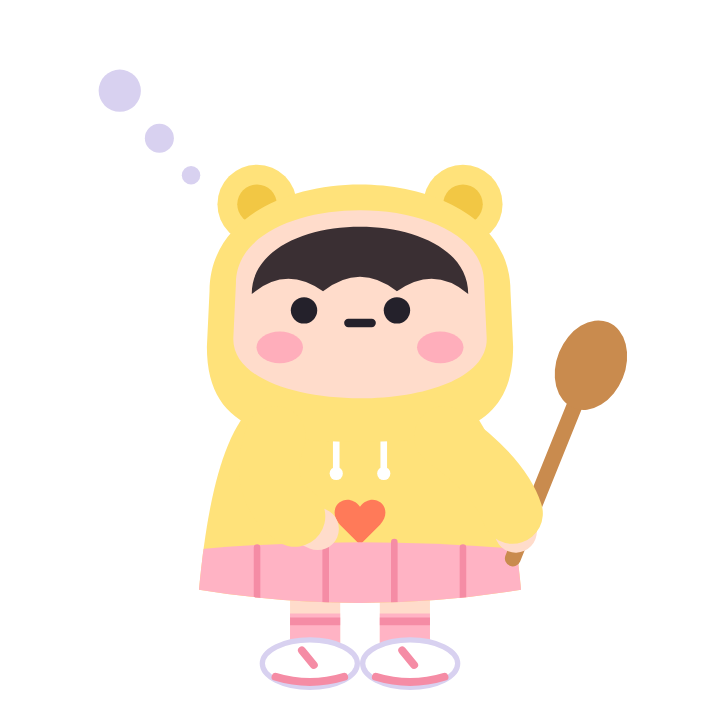
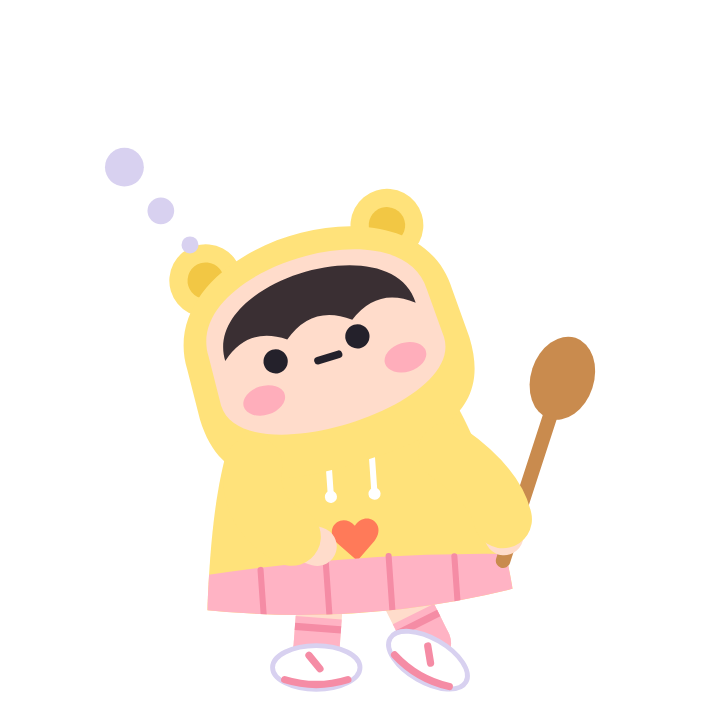
Make the characters move: lean, tilt, step, jump and sit
Every pose used to stand straight and only move the arms. The figure can
now lean its upper body, tilt its head, place each foot separately, lift
off the ground and sit, so Chef Jiw jumps when a timer ends and leans into
the wok, Bai Toey walks home with her tote and sits on a crate with the
list, and Nong Chim sits on a cushion to taste and jumps for a good score.

The body now rises under the head as one bell shape and sleeves match the
top, so head, shoulders and body read as a single silhouette.

Claude-Session: https://claude.ai/code/session_01YRit4BDrXmu1xBXH17a6cf

Changed region(s): [[0.1222, 0.1528, 0.8861, 0.9778], [0.1222, 0.0917, 0.2139, 0.1528], [0.2444, 0.2139, 0.275, 0.275]]

diff --git a/assets/images/chef/src/draw.py b/assets/images/chef/src/draw.py
@@ -19,63 +19,79 @@ HEAD = 'M146 152 C146 78 334 78 334 152 L336 194 C336 254 144 254 144 194 Z'
 def hair_cap(color, fringe, key):
     return (f'<clipPath id="h{key}"><path d="{fringe}"/></clipPath>'
             f'<path d="{HEAD}" fill="{color}" stroke="{color}" stroke-width="12" stroke-linejoin="round" clip-path="url(#h{key})"/>')
-TORSO = 'M180 232 C142 242 126 300 118 384 Q240 404 362 384 C354 300 338 242 300 232 Z'
-SHOULDER = {'L': (176, 268), 'R': (304, 268)}
+# ตัวเป็นทรงระฆังที่ขึ้นไปซ่อนใต้หัว ไหล่จึงต่อจากคางเป็นเส้นเดียว แขนเสื้อสีเดียวกับตัวเสื้อจึงกลืนเป็นก้อนเดียว
+TORSO = 'M164 206 C134 246 122 310 114 384 Q240 406 366 384 C358 310 346 246 316 206 Z'
+SHOULDER = {'L': (160, 268), 'R': (320, 268)}
 def arm(side, hx, hy, bx=0, by=0, skin='#FFE3C2', sleeve=None, cut=0.62):
     """แขนโค้งจากไหล่ถึงมือ ท่อนบนเป็นแขนเสื้อที่กว้างกว่า ปลายแขนกับมือเรียวกว่า"""
     x0, y0 = SHOULDER[side]; cx, cy = (x0 + hx) / 2 + bx, (y0 + hy) / 2 + by
     out = f'<path d="M{x0} {y0} Q{cx} {cy} {hx} {hy}" stroke="{skin}" stroke-width="32" stroke-linecap="round" fill="none"/>'
     if sleeve:
         t = cut; ax, ay = x0 + (cx - x0) * t, y0 + (cy - y0) * t; bx2, by2 = cx + (hx - cx) * t, cy + (hy - cy) * t
-        out += f'<path d="M{x0} {y0} Q{ax} {ay} {ax + (bx2 - ax) * t} {ay + (by2 - ay) * t}" stroke="{sleeve}" stroke-width="46" stroke-linecap="round" fill="none"/>'
+        out += f'<path d="M{x0} {y0} Q{ax} {ay} {ax + (bx2 - ax) * t} {ay + (by2 - ay) * t}" stroke="{sleeve}" stroke-width="48" stroke-linecap="round" fill="none"/>'
     return out
-def sneakers(accent):  # ผ้าใบขาวพื้นหนา มีแถบสี
-    return ''.join(f'<ellipse cx="{x}" cy="440" rx="36" ry="18" fill="#FFFFFF" stroke="{HAT_D}" stroke-width="4"/><path d="M{x-26} 450 q26 8 52 0" stroke="{accent}" stroke-width="6" stroke-linecap="round" fill="none"/><path d="M{x-6} 430 l9 11" stroke="{accent}" stroke-width="6" stroke-linecap="round"/>' for x in (202, 278))
-def legs(skin, sock, stripe):  # ขา ถุงเท้ายาวมีแถบ
-    return (f'<path d="M206 372 V424 M274 372 V424" stroke="{skin}" stroke-width="38" stroke-linecap="round"/><path d="M206 402 V426 M274 402 V426" stroke="{sock}" stroke-width="38" stroke-linecap="butt"/>'
-            f'<path d="M187 408 h38 M255 408 h38" stroke="{stripe}" stroke-width="6"/>')
+STAND = ((202, 440, 0), (278, 440, 0))
+def legs(skin, sock, accent, feet, drop):
+    """ขาจากสะโพกถึงเท้า เท้าแต่ละข้างกำหนดเป็น (x, y, มุมหมุนรองเท้า) จึงยกขา ก้าว หรือนั่งแบะขาได้"""
+    out = ''
+    for (hx, hy), (fx, fy, rot) in zip(((208, 372 + drop), (272, 372 + drop)), feet):
+        ax, ay = fx, fy - 14; mx, my = (hx + ax) / 2, (hy + ay) / 2
+        dx, dy = ax - hx, ay - hy; n = max(1.0, (dx * dx + dy * dy) ** 0.5); px, py = -dy / n * 19, dx / n * 19
+        sx, sy = hx + dx * 0.66, hy + dy * 0.66
+        out += (f'<path d="M{hx} {hy} L{ax} {ay}" stroke="{skin}" stroke-width="38" stroke-linecap="round"/><path d="M{mx} {my} L{ax} {ay}" stroke="{sock}" stroke-width="38"/><circle cx="{ax}" cy="{ay}" r="19" fill="{sock}"/>'
+                f'<path d="M{sx - px} {sy - py} L{sx + px} {sy + py}" stroke="{accent}" stroke-width="6"/>'
+                f'<g transform="rotate({rot} {fx} {fy})"><ellipse cx="{fx}" cy="{fy}" rx="36" ry="18" fill="#FFFFFF" stroke="{HAT_D}" stroke-width="4"/>'
+                f'<path d="M{fx-26} {fy+10} q26 8 52 0" stroke="{accent}" stroke-width="6" stroke-linecap="round" fill="none"/><path d="M{fx-6} {fy-10} l9 11" stroke="{accent}" stroke-width="6" stroke-linecap="round"/></g>')
+    return out
+shadow = '<ellipse cx="240" cy="462" rx="92" ry="10" fill="#24212B" opacity="0.12"/>'
 _n = [0]
-def person(skin, top, clothes, hair, look, mouth, accent, sock='#FFFFFF', back='', under_head='', arms_back='', arms_front='', hat='', front='', blush=0.85):
-    """ลำดับชั้น: ของหลังตัว ขา รองเท้า แขนหลัง ตัวเสื้อ ของหลังหัว (ฮู้ด ผมยาว) หัว ผม หมวก หน้า แขนหน้า ของหน้าสุด"""
+def person(skin, top, clothes, hair, accent, look=(0, 0), mouth=True, sock='#FFFFFF', back='', under_head='', arms_back='', arms_front='', hat='', front='', blush=0.85,
+           lean=0, tilt=0, feet=STAND, lift=0, drop=0, ground=''):
+    """lean = เอนตัวท่อนบน (องศา) tilt = เอียงคอ feet = ตำแหน่งเท้า lift = ลอยจากพื้น (กระโดด) drop = ย่อตัวลง (นั่ง) ground = ของที่พื้น"""
     _n[0] += 1; cid = f'c{_n[0]}'
-    return SVG(f'''{back}{legs(skin, sock, accent)}{sneakers(accent)}{arms_back}
+    return SVG(f'''<g transform="translate(240 470) scale(0.92) translate(-240 -470)">{ground}<g transform="translate(0 {-lift})">{legs(skin, sock, accent, feet, drop)}
+<g transform="translate(0 {drop}) rotate({lean} 240 384)">{back}{arms_back}
 <clipPath id="{cid}"><path d="{TORSO}"/></clipPath><path d="{TORSO}" fill="{top}"/><g clip-path="url(#{cid})">{clothes}</g>
-{under_head}<path d="{HEAD}" fill="{skin}"/>{hair}{hat}{face(look, mouth, blush)}
-{arms_front}{front}''')
+<g transform="rotate({tilt} 240 236)">{under_head}<path d="{HEAD}" fill="{skin}"/>{hair}{hat}{face(look, mouth, blush)}</g>
+{arms_front}</g></g>{front}</g>''')
 
-# ---------- เชฟจิ๋ว: หมวกเชฟ ผมหน้าม้าปัดข้าง ฮู้ดฟ้า ผ้ากันเปื้อนเต็มตัวสีส้มมีกระเป๋า ----------
-S1, SKY, SKY_D, BROWN = '#FFE3C2', '#BFD9FF', '#8FB6F2', '#6B4632'
-apron = (f'<path d="M204 232 V268 M276 232 V268" stroke="{CORAL_D}" stroke-width="9" stroke-linecap="round"/>'
-         f'<path d="M198 264 H282 Q290 264 290 272 V300 L326 312 L336 400 H144 L154 312 L190 300 V272 Q190 264 198 264 Z" fill="{CORAL}"/><rect x="212" y="326" width="56" height="38" rx="13" fill="{CORAL_L}"/>')
+# ---------- เชฟจิ๋ว: หมวกเชฟ ผมหน้าม้าปัดข้าง เสื้อแขนยาวฟ้า ผ้ากันเปื้อนเต็มตัวสีส้มมีกระเป๋า ----------
+S1, SKY, BROWN = '#FFE3C2', '#BFD9FF', '#6B4632'
+apron = (f'<path d="M204 216 V268 M276 216 V268" stroke="{CORAL_D}" stroke-width="9" stroke-linecap="round"/>'
+         f'<path d="M198 264 H282 Q290 264 290 272 V300 L326 312 L338 404 H142 L154 312 L190 300 V272 Q190 264 198 264 Z" fill="{CORAL}"/><rect x="212" y="326" width="56" height="38" rx="13" fill="{CORAL_L}"/>')
 chef_hair = hair_cap(BROWN, 'M100 40 H380 V182 C356 154 324 142 292 142 Q262 166 226 138 Q166 144 100 192 Z', 'chef')
-hood_down = lambda c: f'<ellipse cx="240" cy="246" rx="86" ry="26" fill="{c}"/>'
 def toque(rot=-8):
     return (f'<g transform="translate(240 96) rotate({rot}) scale(0.86) translate(-240 -150)"><path d="M184 152 Q240 134 296 152 L296 122 Q240 106 184 122 Z" fill="{HAT_D}" stroke="{HAT_D}" stroke-width="5" stroke-linejoin="round"/>'
             f'<path d="M180 124 C146 108 152 58 194 58 C202 20 278 20 286 58 C328 58 334 108 300 124 Q240 106 180 124 Z" fill="{HAT}" stroke="{HAT_D}" stroke-width="5" stroke-linejoin="round"/>'
             f'<path d="M214 64 q6 22 0 42 M266 64 q-6 22 0 42" stroke="{HAT_D}" stroke-width="5" stroke-linecap="round" fill="none"/></g>')
-def chef(look=(0, 0), mouth=True, **k):
+def chef(**k):
     k.setdefault('hat', toque())
-    return person(S1, SKY, apron, chef_hair, look, mouth, CORAL, under_head=hood_down(SKY_D), **k)
+    return person(S1, SKY, apron, chef_hair, CORAL, **k)
 A1 = lambda side, hx, hy, bx=0, by=0: arm(side, hx, hy, bx, by, S1, SKY)
 ladle = lambda x, y, r: f'<g transform="rotate({r} {x} {y})"><path d="M{x} {y+26} V{y-66}" stroke="{WOOD}" stroke-width="10" stroke-linecap="round"/><path d="M{x-22} {y-70} a22 22 0 0 0 44 0 z" fill="{WOOD}"/></g>'
-wok = lambda x, y: (f'<path d="M{x-66} {y} q66 56 132 0 z" fill="{INK}"/><path d="M{x+62} {y+2} l48 -12" stroke="{INK}" stroke-width="13" stroke-linecap="round"/>'
-                    f'<circle cx="{x-28}" cy="{y-24}" r="9" fill="{GREEN_L}"/><circle cx="{x+2}" cy="{y-42}" r="9" fill="{CORAL}"/><circle cx="{x+28}" cy="{y-22}" r="9" fill="{YEL}"/><circle cx="{x-6}" cy="{y-12}" r="8" fill="{GREEN}"/>'
-                    f'<path d="M{x-50} {y-54} q-9 -11 0 -22 M{x+48} {y-58} q9 -11 0 -22" stroke="{HAT_D}" stroke-width="6" stroke-linecap="round" fill="none"/>')
+wok = lambda x, y, r=0: (f'<g transform="rotate({r} {x} {y})"><path d="M{x-66} {y} q66 56 132 0 z" fill="{INK}"/><path d="M{x+62} {y+2} l48 -12" stroke="{INK}" stroke-width="13" stroke-linecap="round"/></g>'
+                    f'<circle cx="{x-34}" cy="{y-40}" r="9" fill="{GREEN_L}"/><circle cx="{x-2}" cy="{y-66}" r="9" fill="{CORAL}"/><circle cx="{x+30}" cy="{y-44}" r="9" fill="{YEL}"/><circle cx="{x-10}" cy="{y-24}" r="8" fill="{GREEN}"/><circle cx="{x+16}" cy="{y-84}" r="7" fill="{GREEN_L}"/>')
 POSES = {
-  'hi': chef(arms_back=A1('L', 104, 196, -18, 14), arms_front=ladle(372, 300, 14) + A1('R', 368, 318, 20, -6),
-             front=f'<path d="M66 172 q-12 -14 -8 -32 M90 156 q-6 -12 -2 -26" stroke="{YEL}" stroke-width="7" stroke-linecap="round" fill="none"/>'),
-  'cook': chef(arms_front=wok(256, 350) + A1('L', 196, 344, -34, 12) + A1('R', 352, 340, 30, 8)),
-  'cheer': chef(arms_back=A1('L', 100, 176, -14, 16) + A1('R', 380, 176, 14, 16), hat=toque(-14), front=star(58, 116, 22) + star(426, 104, 26) + star(398, 36, 13) + star(100, 50, 12)),
-  'think': chef(look=(10, -8), arms_front=A1('L', 226, 334, -38, 16) + A1('R', 290, 232, 48, 12), hat=toque(6), blush=0.6,
-                front=f'<circle cx="376" cy="110" r="8" fill="{HAT_D}"/><circle cx="400" cy="80" r="13" fill="{HAT_D}"/><circle cx="430" cy="36" r="22" fill="{HAT_D}"/>'),
-  'oops': chef(arms_front=A1('L', 174, 214, -44, 22) + A1('R', 306, 214, 44, 22), hat=toque(-18), blush=0.5,
-               front='<path d="M404 86 q22 34 0 46 q-22 -12 0 -46 z" fill="#6CC5F5"/><path d="M70 110 l-22 -10 M64 144 l-24 2" stroke="#6CC5F5" stroke-width="7" stroke-linecap="round"/>'),
+  # โบกมือ เอนตัวนิดๆ เท้าหนึ่งเขย่ง
+  'hi': chef(lean=-5, tilt=5, feet=((200, 440, 0), (292, 432, 24)), arms_back=A1('L', 92, 196, -18, 14), arms_front=ladle(378, 300, 14) + A1('R', 374, 318, 20, -6),
+             front=f'<path d="M52 168 q-12 -14 -8 -32 M76 152 q-6 -12 -2 -26" stroke="{YEL}" stroke-width="7" stroke-linecap="round" fill="none"/>'),
+  # เอนตัวตามกระทะ ของในกระทะลอยขึ้น
+  'cook': chef(lean=9, tilt=-6, feet=((186, 440, -8), (286, 440, 10)), arms_front=wok(262, 346, -10) + A1('L', 200, 340, -34, 12) + A1('R', 356, 328, 30, 8)),
+  # กระโดดตัวลอย แขนขากาง
+  'cheer': chef(lift=30, feet=((170, 432, -22), (310, 432, 22)), ground=shadow, arms_back=A1('L', 88, 172, -14, 16) + A1('R', 392, 172, 14, 16), hat=toque(-14),
+                front=star(50, 96, 22) + star(432, 84, 26) + star(400, 22, 13) + star(96, 30, 12)),
+  # เอียงคอคิด เท้าไขว้
+  'think': chef(look=(10, -8), tilt=11, lean=3, feet=((214, 440, 0), (250, 438, -24)), arms_front=A1('L', 230, 334, -38, 16) + A1('R', 300, 252, 50, 10), hat=toque(4), blush=0.6,
+                front=f'<circle cx="392" cy="112" r="8" fill="{HAT_D}"/><circle cx="414" cy="82" r="13" fill="{HAT_D}"/><circle cx="442" cy="40" r="22" fill="{HAT_D}"/>'),
+  # ผงะถอยหลัง ยกขาข้างหนึ่ง มือกุมแก้ม
+  'oops': chef(lean=-10, tilt=-4, feet=((214, 440, 0), (318, 410, 34)), arms_front=A1('L', 170, 214, -44, 22) + A1('R', 310, 214, 44, 22), hat=toque(-20), blush=0.5,
+               front='<path d="M408 96 q22 34 0 46 q-22 -12 0 -46 z" fill="#6CC5F5"/><path d="M56 122 l-22 -10 M50 156 l-24 2" stroke="#6CC5F5" stroke-width="7" stroke-linecap="round"/>'),
 }
 
 # ---------- ใบเตย: หมวกบักเก็ต ผมเปียคู่ผูกโบว์ เสื้อยืดเขียวมินต์ เอี๊ยมกระโปรงยีนส์ติดกระดุมเหลือง ถุงผ้าใส่ผัก ----------
 S2, MINT, DENIM, DENIM_D, CREAM, CREAM_D, DARKHAIR = '#FFDDBE', '#A6ECCF', '#7C9BF0', '#5E7FE0', '#FFF3DC', '#EAD9B4', '#4A3A36'
-pinafore = (f'<path d="M206 232 V270 M274 232 V270" stroke="{DENIM}" stroke-width="16" stroke-linecap="round"/>'
-            f'<path d="M196 262 H284 Q292 262 292 270 V304 L334 314 L346 404 H134 L146 314 L188 304 V270 Q188 262 196 262 Z" fill="{DENIM}"/>'
+pinafore = (f'<path d="M206 214 V270 M274 214 V270" stroke="{DENIM}" stroke-width="16" stroke-linecap="round"/>'
+            f'<path d="M196 262 H284 Q292 262 292 270 V304 L334 314 L348 406 H132 L146 314 L188 304 V270 Q188 262 196 262 Z" fill="{DENIM}"/>'
             f'<circle cx="206" cy="276" r="7" fill="{YEL}"/><circle cx="274" cy="276" r="7" fill="{YEL}"/><path d="M216 316 H264 V340 Q240 352 216 340 Z" fill="none" stroke="{DENIM_D}" stroke-width="5" stroke-linejoin="round"/>'
             f'<path d="M150 346 Q240 336 330 346" stroke="{DENIM_D}" stroke-width="5" fill="none"/>')
 braid = lambda x, d: (f'<path d="M{x} 206 q{d*14} 34 {d*4} 68 q{-d*6} 24 {d*6} 44" stroke="{DARKHAIR}" stroke-width="30" stroke-linecap="round" fill="none"/>'
@@ -83,15 +99,19 @@ braid = lambda x, d: (f'<path d="M{x} 206 q{d*14} 34 {d*4} 68 q{-d*6} 24 {d*6} 4
 toey_hair = hair_cap(DARKHAIR, 'M100 40 H380 V190 C356 160 322 150 296 148 Q240 170 184 148 C158 150 124 160 100 190 Z', 'toey')
 bucket = (f'<g transform="translate(240 92) scale(0.86) translate(-240 -130)"><path d="M96 132 Q240 96 384 132 Q396 150 372 156 Q240 126 108 156 Q84 150 96 132 Z" fill="{CREAM_D}"/>'
           f'<path d="M140 136 C132 60 186 26 240 26 C294 26 348 60 340 136 Q240 110 140 136 Z" fill="{CREAM}"/><path d="M146 112 Q240 88 334 112" stroke="{CREAM_D}" stroke-width="6" fill="none"/></g>')
-def toey(look=(0, 0), mouth=True, **k):
-    return person(S2, MINT, pinafore, toey_hair, look, mouth, GREEN, back=braid(156, -1) + braid(324, 1), hat=bucket, **k)
+def toey(**k):
+    return person(S2, MINT, pinafore, toey_hair, GREEN, back=braid(150, -1) + braid(330, 1), hat=bucket, **k)
 A2 = lambda side, hx, hy, bx=0, by=0: arm(side, hx, hy, bx, by, S2, MINT, 0.4)
 tote = lambda x, y: (f'<path d="M{x-24} {y-4} q24 -60 48 0" stroke="{CREAM_D}" stroke-width="8" fill="none" stroke-linecap="round"/>'
     f'<path d="M{x-26} {y+2} q-20 -42 6 -58 q24 18 8 58 z" fill="{GREEN}"/><path d="M{x-2} {y+2} q-8 -50 24 -62 q18 28 -4 62 z" fill="{GREEN_L}"/><path d="M{x+16} {y+4} l20 -50 q10 4 6 14 l-12 38 z" fill="{CORAL}"/>'
     f'<path d="M{x-44} {y} h88 l-6 68 q-38 10 -76 0 z" fill="{CREAM}" stroke="{CREAM_D}" stroke-width="4" stroke-linejoin="round"/>' + heart(x, y + 36, 0.75, CORAL))
 POSES.update({
-  'shop': toey(arms_back=A2('L', 106, 200, -18, 14), arms_front=tote(382, 330) + A2('R', 374, 322, 22, -4), front=star(64, 150, 15)),
-  'list': toey(arms_front=f'<rect x="262" y="292" width="104" height="116" rx="14" fill="#FFFFFF" stroke="{HAT_D}" stroke-width="5"/>'
+  # เดินกลับจากตลาด ก้าวขา แกว่งถุงผ้า
+  'shop': toey(lean=5, tilt=-5, feet=((190, 442, -6), (300, 424, 30)), arms_back=A2('L', 96, 204, -18, 14), arms_front=tote(390, 326) + A2('R', 382, 318, 22, -4), front=star(56, 150, 15)),
+  # นั่งบนลังไม้ อ่านรายการของ แกว่งขา
+  'list': toey(tilt=7, feet=((196, 446, -14), (292, 434, 22)),
+               ground=f'<rect x="126" y="384" width="228" height="80" rx="12" fill="{STRAW}"/><path d="M138 412 h204 M138 438 h204" stroke="{STRAW_D}" stroke-width="6" stroke-linecap="round"/>',
+               arms_front=f'<rect x="262" y="292" width="104" height="116" rx="14" fill="#FFFFFF" stroke="{HAT_D}" stroke-width="5"/>'
            f'<path d="M280 322 l8 8 l14 -16 M280 354 l8 8 l14 -16" stroke="{GREEN}" stroke-width="7" fill="none" stroke-linecap="round" stroke-linejoin="round"/>'
            f'<path d="M316 324 h34 M316 356 h34 M282 386 h66" stroke="{HAT_D}" stroke-width="7" stroke-linecap="round"/>' + A2('R', 348, 352, 30, 0) + A2('L', 208, 340, -34, 14)),
 })
@@ -100,22 +120,27 @@ POSES.update({
 S3, BUTTER, BUTTER_D, ROSE, ROSE_D, BLACK = '#FFDCCB', '#FFE27A', '#F2C744', '#FFB3C4', '#F58CA5', '#3A2F33'
 bear_hood = (f'<circle cx="162" cy="92" r="30" fill="{BUTTER}"/><circle cx="318" cy="92" r="30" fill="{BUTTER}"/><circle cx="162" cy="92" r="15" fill="{BUTTER_D}"/><circle cx="318" cy="92" r="15" fill="{BUTTER_D}"/>'
              f'<path d="M126 158 C126 50 354 50 354 158 L356 200 C356 262 310 272 240 272 C170 272 124 262 124 200 Z" fill="{BUTTER}"/>')
-chim_clothes = (f'<path d="M222 262 v30 M258 262 v30" stroke="#FFFFFF" stroke-width="5" stroke-linecap="round"/><circle cx="222" cy="296" r="5" fill="#FFFFFF"/><circle cx="258" cy="296" r="5" fill="#FFFFFF"/>'
-                + heart(240, 326, 0.8, CORAL) + f'<path d="M110 354 Q240 342 370 354 V420 H110 Z" fill="{ROSE}"/><path d="M162 352 V410 M214 348 V410 M266 348 V410 M318 352 V410" stroke="{ROSE_D}" stroke-width="5" stroke-linecap="round"/>')
+chim_clothes = (f'<path d="M222 268 v26 M258 268 v26" stroke="#FFFFFF" stroke-width="5" stroke-linecap="round"/><circle cx="222" cy="298" r="5" fill="#FFFFFF"/><circle cx="258" cy="298" r="5" fill="#FFFFFF"/>'
+                + heart(240, 328, 0.8, CORAL) + f'<path d="M106 356 Q240 344 374 356 V420 H106 Z" fill="{ROSE}"/><path d="M160 354 V410 M214 350 V410 M266 350 V410 M320 354 V410" stroke="{ROSE_D}" stroke-width="5" stroke-linecap="round"/>')
 chim_hair = f'<path d="M158 160 C158 92 322 92 322 160 Q296 138 268 158 Q240 136 212 158 Q184 138 158 160 Z" fill="{BLACK}"/>'
-def chim(look=(0, 0), mouth=True, **k):
+def chim(**k):
     k.setdefault('blush', 0.95)
-    inner = person(S3, BUTTER, chim_clothes, chim_hair, look, mouth, ROSE_D, sock=ROSE, under_head=bear_hood, **k)
+    inner = person(S3, BUTTER, chim_clothes, chim_hair, ROSE_D, sock=ROSE, under_head=bear_hood, **k)
     body = inner[inner.index('>') + 1:inner.rindex('</svg>')]
-    return SVG(f'<g transform="translate(240 460) scale(0.88) translate(-240 -460)">{body}</g>')  # ตัวเล็กกว่าพี่ๆ
+    return SVG(f'<g transform="translate(240 464) scale(0.88) translate(-240 -464)">{body}</g>')  # ตัวเล็กกว่าพี่ๆ
 A3 = lambda side, hx, hy, bx=0, by=0: arm(side, hx, hy, bx, by, S3, BUTTER, 0.8)
 bigspoon = lambda x, y, r: f'<g transform="rotate({r} {x} {y})"><path d="M{x} {y+22} v-136" stroke="{WOOD}" stroke-width="12" stroke-linecap="round"/><ellipse cx="{x}" cy="{y-136}" rx="26" ry="35" fill="{WOOD}"/></g>'
 POSES.update({
-  'sip': chim(mouth=False, arms_front=f'<path d="M312 206 L262 192" stroke="{WOOD}" stroke-width="11" stroke-linecap="round"/><ellipse cx="248" cy="188" rx="22" ry="14" fill="{WOOD}"/>' + A3('R', 316, 212, 46, 18) + A3('L', 208, 338, -34, 14),
-              front=heart(416, 110, 1.1) + heart(70, 140, 0.7)),
-  'yum': chim(arms_back=A3('L', 104, 184, -14, 16), arms_front=bigspoon(374, 292, 12) + A3('R', 372, 306, 22, -2), front=star(60, 120, 20) + star(432, 50, 14) + star(112, 50, 11)),
-  'hmm': chim(look=(-9, -7), arms_front=bigspoon(364, 340, 22) + A3('R', 358, 340, 26, 2) + A3('L', 208, 338, -34, 14), blush=0.6,
-              front=f'<circle cx="112" cy="70" r="7" fill="{HAT_D}"/><circle cx="88" cy="42" r="11" fill="{HAT_D}"/><circle cx="58" cy="6" r="16" fill="{HAT_D}"/>'),
+  # นั่งแบะขาบนเบาะ ชิมจากช้อน
+  'sip': chim(mouth=False, tilt=-6, drop=46, feet=((138, 446, -62), (342, 446, 62)), ground=f'<ellipse cx="240" cy="452" rx="176" ry="24" fill="{ROSE}"/>',
+              arms_front=f'<path d="M312 206 L262 192" stroke="{WOOD}" stroke-width="11" stroke-linecap="round"/><ellipse cx="248" cy="188" rx="22" ry="14" fill="{WOOD}"/>' + A3('R', 316, 212, 46, 18) + A3('L', 208, 338, -34, 14),
+              front=heart(420, 150, 1.1) + heart(62, 184, 0.7)),
+  # กระโดดชูช้อน ขาข้างหนึ่งเตะไปข้างหลัง
+  'yum': chim(lift=34, lean=7, tilt=-6, feet=((184, 436, -14), (318, 408, 46)), ground=shadow, arms_back=A3('L', 96, 176, -14, 16), arms_front=bigspoon(384, 286, 14) + A3('R', 382, 300, 22, -2),
+              front=star(52, 96, 20) + star(436, 26, 14) + star(108, 30, 11)),
+  # เอียงคอสงสัย เท้าเขี่ยพื้น
+  'hmm': chim(look=(-9, -7), tilt=-13, lean=-4, feet=((204, 440, 0), (296, 434, 30)), arms_front=bigspoon(368, 340, 22) + A3('R', 362, 340, 26, 2) + A3('L', 208, 338, -34, 14), blush=0.6,
+              front=f'<circle cx="100" cy="92" r="7" fill="{HAT_D}"/><circle cx="76" cy="64" r="11" fill="{HAT_D}"/><circle cx="46" cy="28" r="16" fill="{HAT_D}"/>'),
 })
 for n, svg in POSES.items(): open(n + '.svg', 'w').write(svg)
 

diff --git a/README.md b/README.md
@@ -88,6 +88,8 @@ select created_at, kind, name, contact, paid_note, source from waitlist order by
 | ใบเตย | หมวกบักเก็ต ผมเปียคู่ผูกโบว์ เสื้อยืดเขียวมินต์ เอี๊ยมกระโปรงยีนส์ ถือถุงผ้าใส่ผัก | แผนวันอาทิตย์ รายการของที่ต้องซื้อ ราคาตลาด |
 | น้องชิม | ฮู้ดหมีสีเหลืองสวมฮู้ด กระโปรงพลีทชมพู ถุงเท้าชมพู ถือช้อนใหญ่ | ชิมให้คะแนนตอนทำจบจาน หน้าตาเปลี่ยนตามคะแนน |
 
+ท่าทางมีการเอนตัว เอียงคอ ก้าวขา กระโดด และนั่ง (พารามิเตอร์ `lean` `tilt` `feet` `lift` `drop` ของ `person` ในไฟล์วาด) ทุกท่าใช้หน้าเดียวกัน: ตาจุด ปากขีด
+
 ฉาก: หน้าร้านเป็นครัวของทีมเชฟ และหน้าแผนวันอาทิตย์เป็นแผงตลาด (ดู `SCENE` ในไฟล์เดียวกัน) หัวข้อใช้ฟอนต์ Mitr
 
 วาดเองเป็น SVG: แก้ท่า สี ชุด ฉาก หรือเพิ่มตัวละครที่ `assets/images/chef/src/draw.py` รันแล้วได้ SVG ใหม่ จากนั้น `node raster.js ..` ในโฟลเดอร์เดียวกันแปลงเป็น PNG
